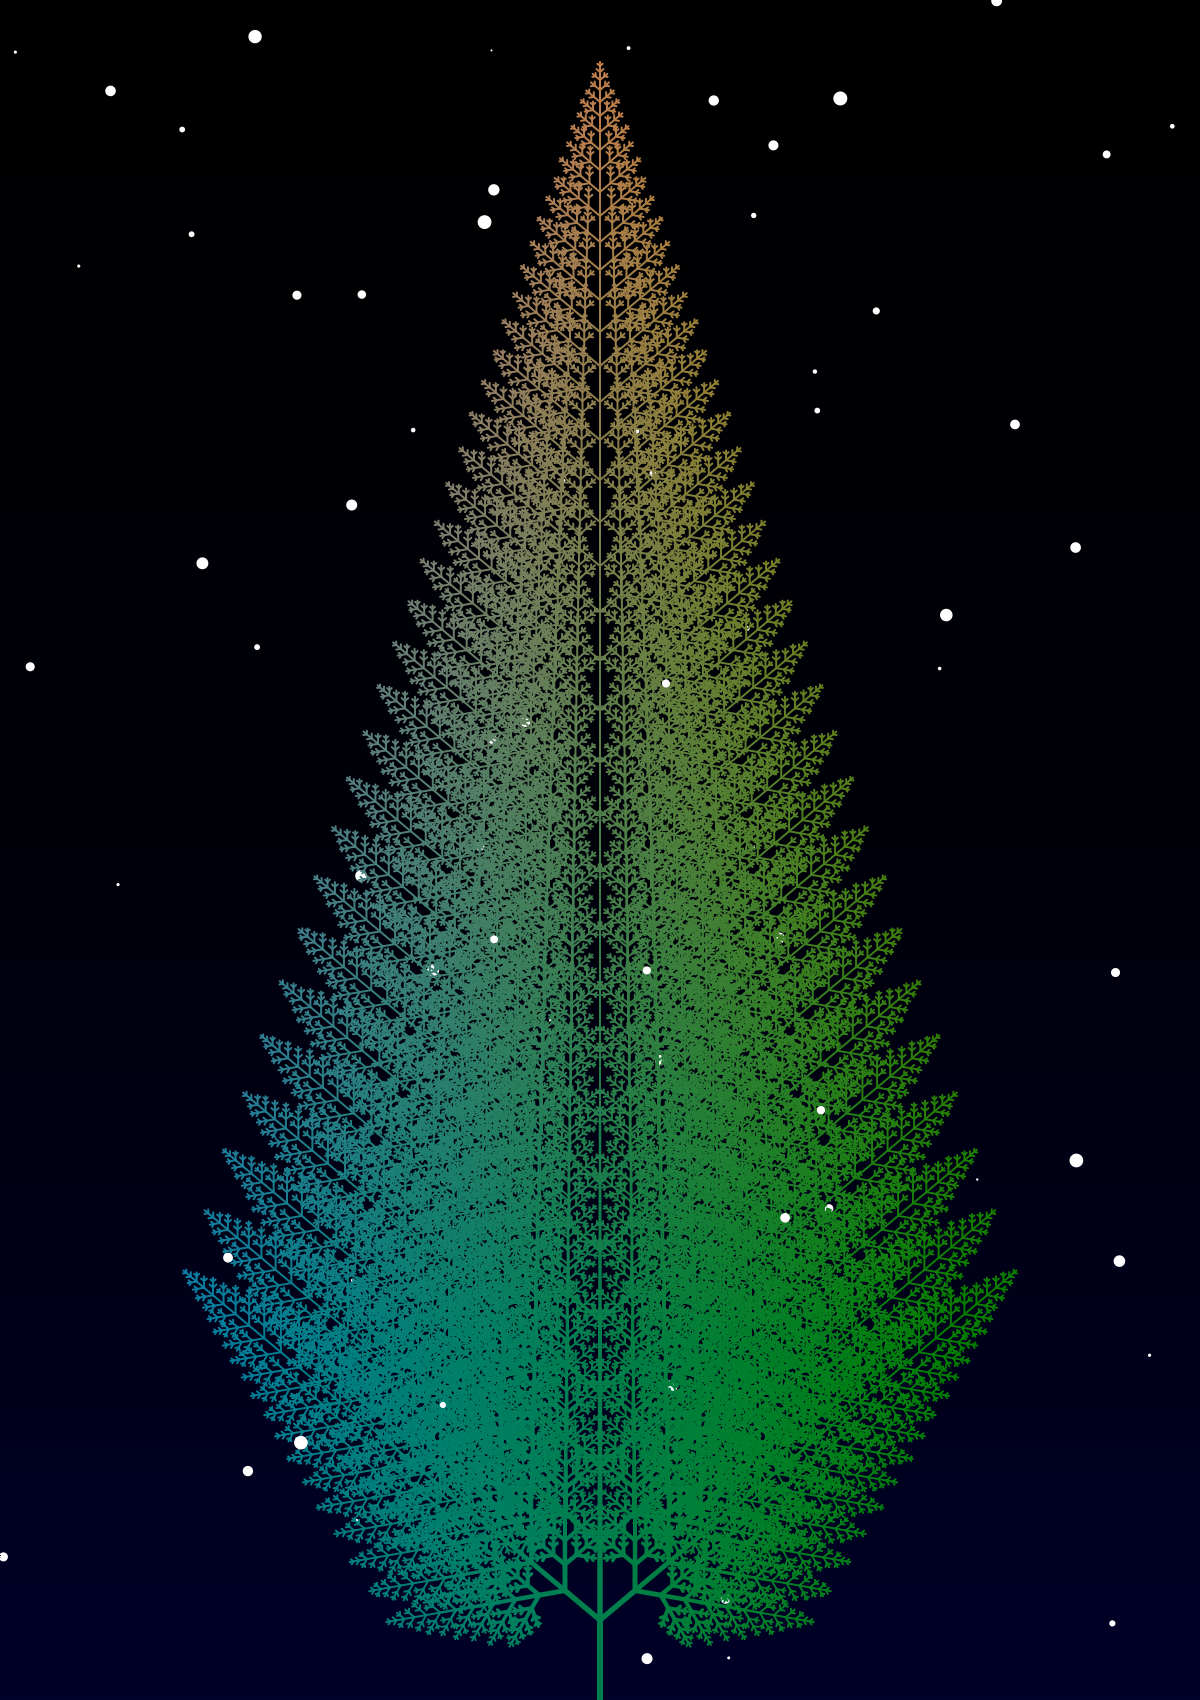
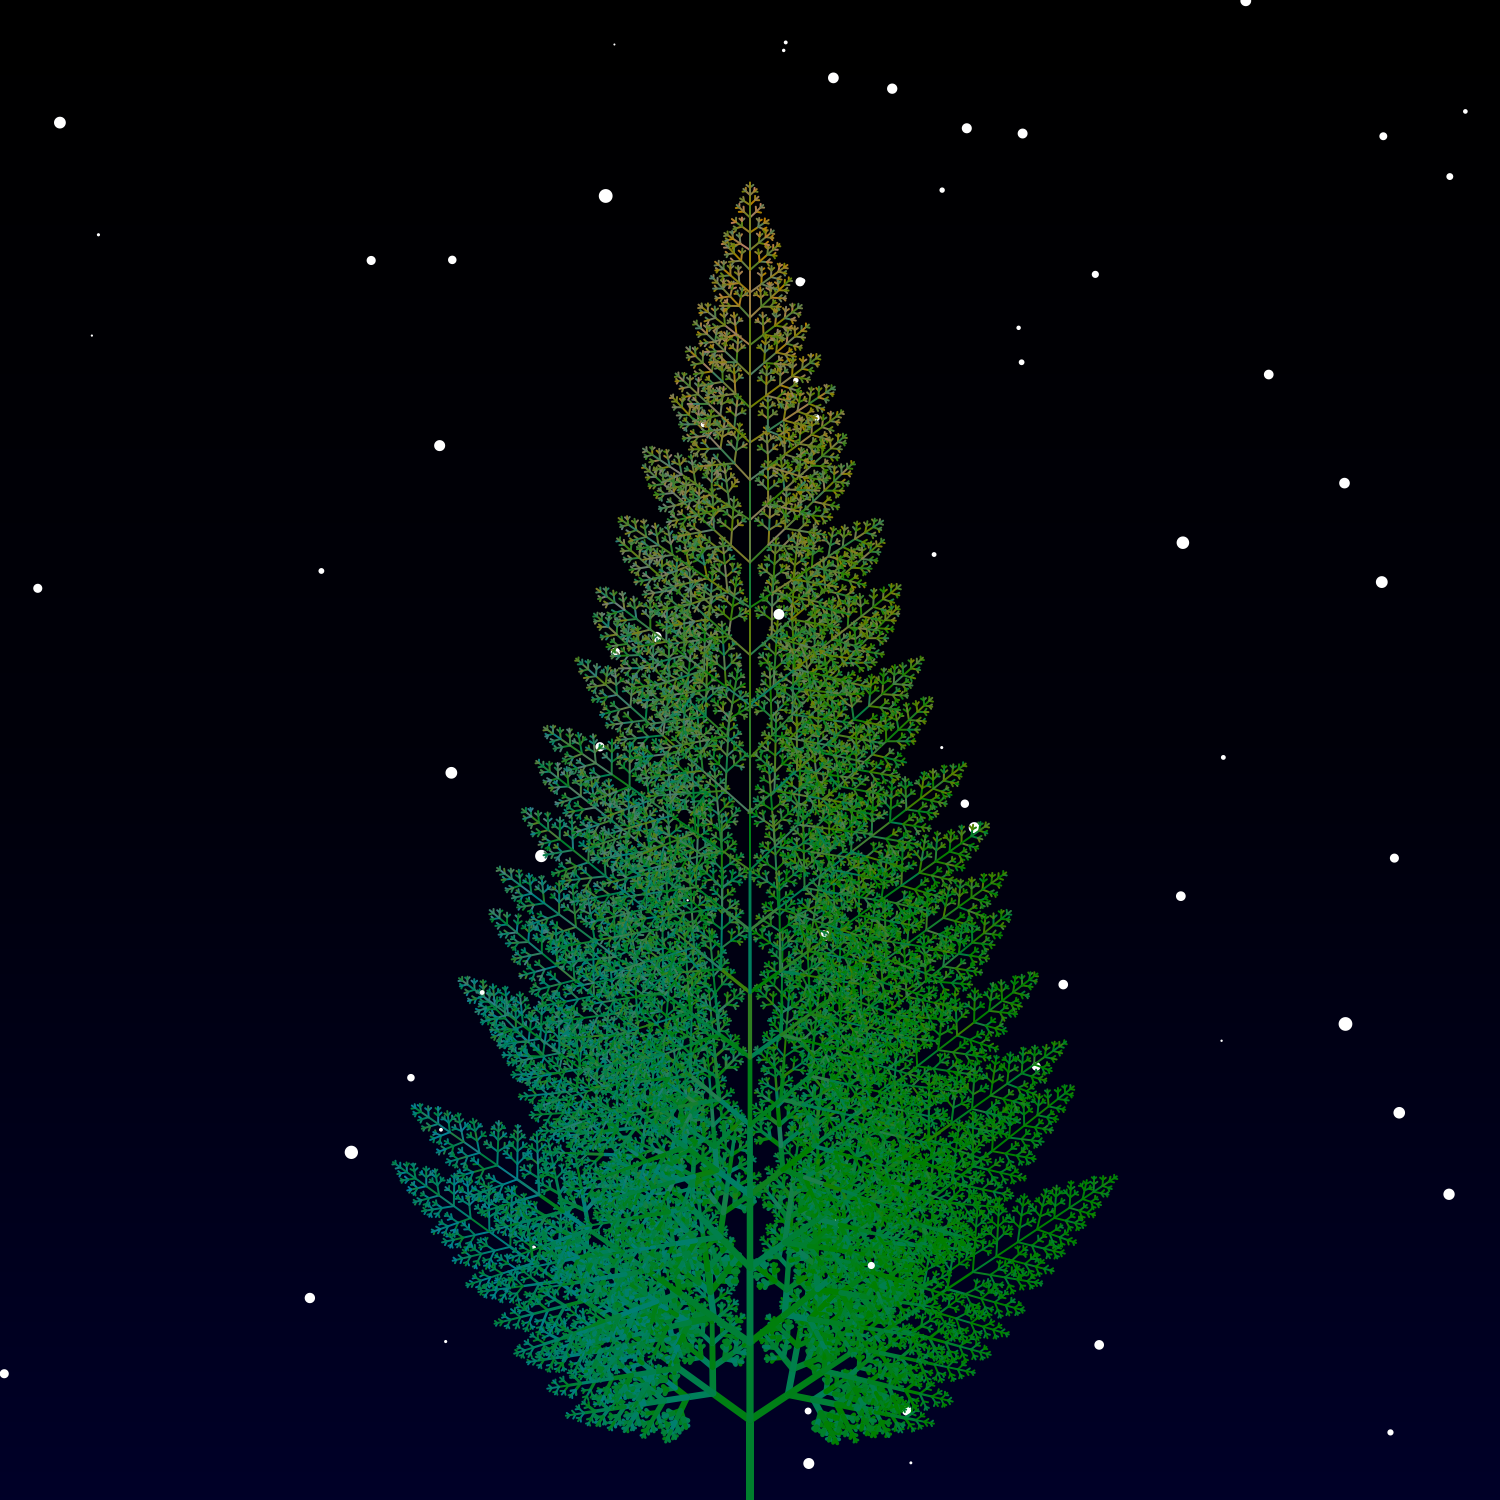
add random values

Changed region(s): [[0.1542, 0.0307, 0.8633, 1.0]]

diff --git a/pkg/xmastree/xmastree.go b/pkg/xmastree/xmastree.go
@@ -22,17 +22,22 @@ func (xt *xmastree) tree(startx float64, starty float64, length float64, rotatio
 	c.DrawLine(startx, starty, endx, endy)
 	c.SetLineWidth(lineWidth)
 	// make gradient darker
-	gradientColor1 := math.Max((float64(xt.height)-starty)/float64(xt.height)-0.2, 0)
-	gradientColor2 := math.Max((float64(xt.width)-startx)/float64(xt.width)-0.2, 0)
+	gradientColor1 := math.Max((float64(xt.height)-starty)/float64(xt.height)-(0.4*rand.Float64()+0.1), 0)
+	gradientColor2 := math.Max((float64(xt.width)-startx)/float64(xt.width)-(0.4*rand.Float64()+0.1), 0)
 	c.SetRGB(gradientColor1, 0.5, gradientColor2)
 	c.Stroke()
 
 	if length > 5 {
-		newLineWidth := math.Max(lineWidth-0.5, 2)
+		// newLineWidth := math.Max(lineWidth-0.2, 2) // no variance
+		newLineWidth := math.Max(lineWidth-(rand.Float64()+0.2), 2)
 		newLength := length / 1.75
-		newLengthCenter := length - 2
-		xt.tree(endx, endy, newLength, 50+rotation, newLineWidth)
-		xt.tree(endx, endy, newLength, -50+rotation, newLineWidth)
+		newLengthCenter := length - 2.5
+		// angle1 := 50 // no variance
+		// angle2 := 50
+		angle1 := rand.Float64()*14 - 7 + 50
+		angle2 := rand.Float64()*14 - 7 + 50
+		xt.tree(endx, endy, newLength, angle1+rotation, newLineWidth)
+		xt.tree(endx, endy, newLength, -angle2+rotation, newLineWidth)
 		xt.tree(endx, endy, newLengthCenter, 0+rotation, newLineWidth)
 	}
 }
@@ -67,7 +72,7 @@ func (xt *xmastree) Render(path string) {
 
 	xt.background()
 	xt.stars(50)
-	xt.tree(float64(xt.width)/2.0, float64(xt.height), 80, -90, 6)
+	xt.tree(float64(xt.width)/2.0, float64(xt.height), 80, -90, 8)
 	xt.stars(20)
 
 	fmt.Println("Saving")

diff --git a/cmd/render/main.go b/cmd/render/main.go
@@ -5,7 +5,7 @@ import (
 )
 
 func main() {
-	art, err := xmastree.New(1200, 1700)
+	art, err := xmastree.New(1500, 1500)
 	if err != nil {
 		panic(err)
 	}
